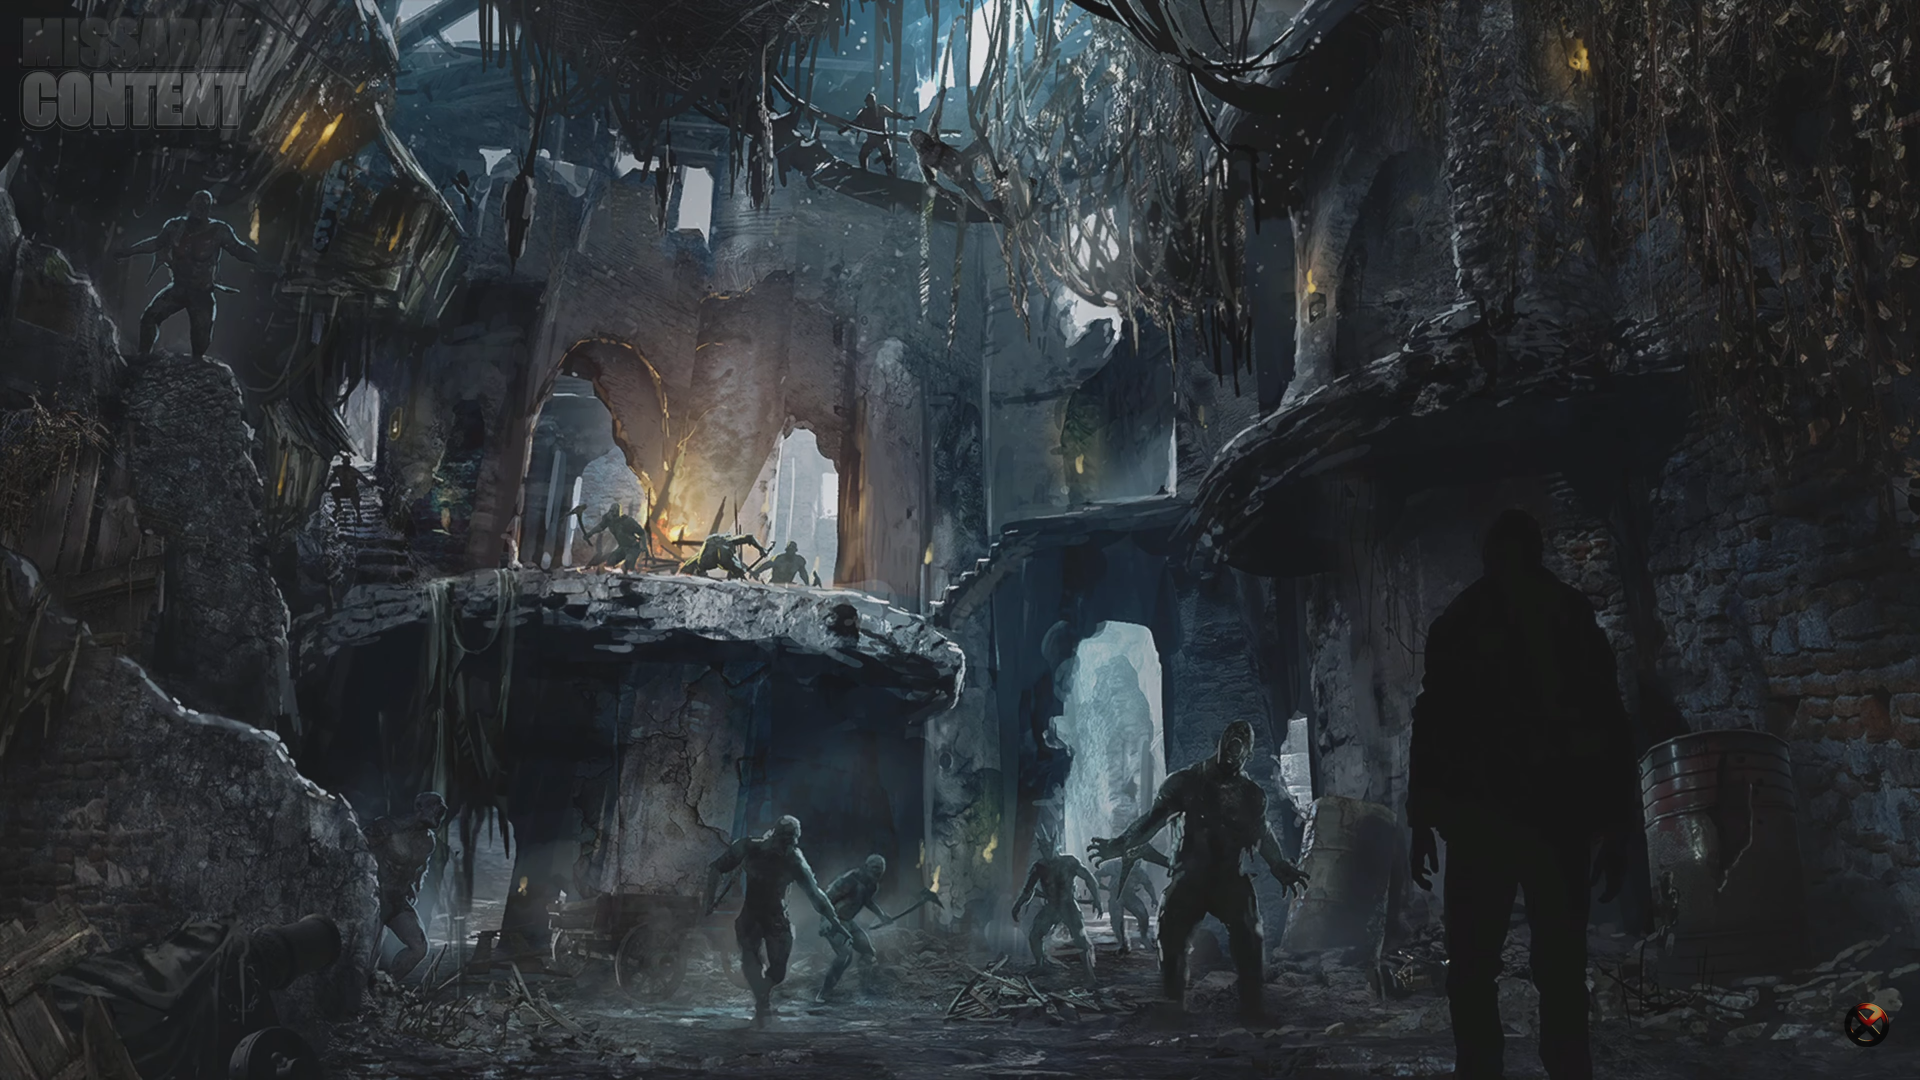
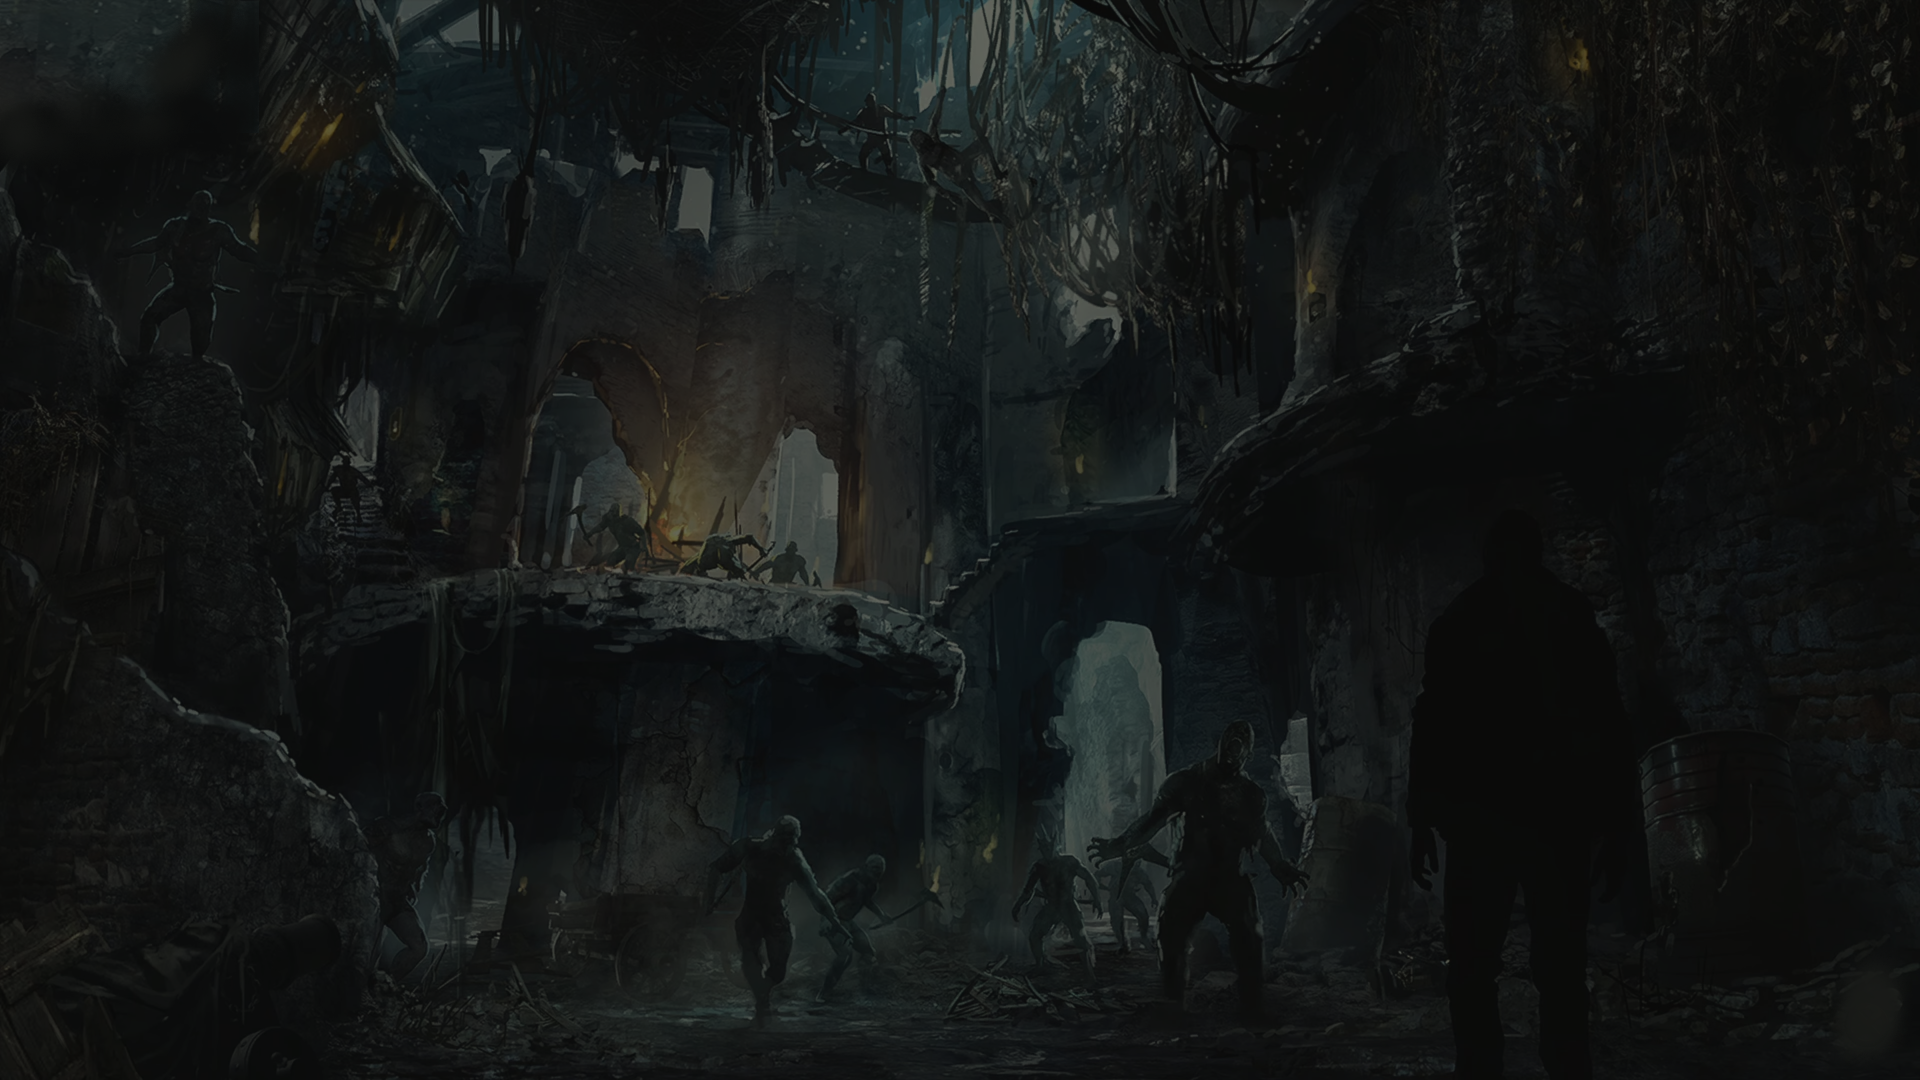
Monstre CSS

diff --git a/html/monstre.html b/html/monstre.html
@@ -6,80 +6,123 @@
         <link rel="shortcut icon" href="../favicon.ico" type="image/x-icon">
         <meta charset="UTF-8" />
         <link href="../css/style.css"rel="stylesheet">
-
-        <title>Chèvre</title>
-
+        <script src="https://kit.fontawesome.com/c6d2413c18.js" crossorigin="anonymous"></script>
+        <title>Monstres</title>
     </head>
 
-    <body>
-        <h1 class="titre">Les monstres.</h1>
-        <div class="fusil">
-            <p>Il y a différent catégorie de monstre dans RE8, certain fort grace à leur nombre ou d'autre aussi</p>
-            <p>coriace que des boss, ils sont tous les résultats de sexpériencces de Miranda qu'elle considère</p>
-            <p>tous comme des échecs.</p>
+    <body class="fond_monstre">
+        <div class="menu">
+            <p><i class="fas fa-bars fa-0.5x"></i> Menu</p>
+            <div class="conteneurmenu">
+                <div class="boutonmenu">
+                    <a href="../index.html"><p class="texte">Accueil</p></a>
+                </div>
+                <div class="boutonmenu">
+                    <a href="boss.html" class="texte"><p>Les boss</p></a>
+                </div>
+                <div class="sousmenuarme">
+                    <p class="textearme">Les armes</p>
+                    <div class="sousmenu">
+                        <div class="arme">
+                            <a href="arme de poing.html" class="texte"><p>Arme de poing</p></a>
+                        </div>
+                        <div class="arme">
+                            <a href="fusil.html" class="texte"><p>Fusil</p></a>
+                        </div>
+                        <div class="arme">
+                            <a href="sniper.html" class="texte"><p>Sniper</p></a>
+                        </div>
+                        <div class="arme">
+                            <a href="lance grenade.html" class="texte"><p>Lance grenade</p></a>
+                        </div>
+                        <div class="arme">
+                            <a href="fusil d'assault.html" class="texte"><p>Fusil d'assault</p></a>
+                        </div>
+                        <div class="arme">
+                            <a href="arme de mêlée.html" class="texte"><p>Arme de  mêlée</p></a>
+                        </div>
+                        <div class="arme">
+                            <a href="magnum.html" class="texte"><p>Magnum</p></a>
+                        </div>
+                    </div>
+                </div>
+                <div class="boutonmenu">
+                    <a href="histoire.html"><p class="texte">L'Histoire</p></a>
+                </div>
+            </div>
         </div>
-        <div class="fusil">
-            <br>
-            <br>
-            <br>
-            <h3>Les Lycans</h3>
-            <div class="image">
-                <img src="..\img\lycan.png">
+        <div class="fond_texte">
+            <h1 class="titre">Les monstres.</h1>
+            <div class="navigation">
+                <a href="#"><p>Intro</p></a>
+                <a href="#2"><p>Lycan</p></a>
+                <a href="#3"><p>Moroaicǎ</p></a>
+                <a href="#4"><p>Samcas</p></a>
+                <a href="#5"><p>Lycans blindés</p></a>
+                <a href="#6"><p>Soldat Eins</p></a>
+                </div>
+            <div class="text_wiki">
+                <p>Il y'a différentes catégories de monstre dans RE8, certain fort grâce à leur nombre ou d'autre plus</p>
+                <p>coriace que des boss, ils sont tous les résultats d'expériences de Miranda qu'elle considère</p>
+                <p>tous comme des échecs.</p>
             </div>
-            <p>Premier ennemie du jeu, ce sont des loup-garou qui peuvent</p>
-            <p>transformer d'autre gens en lycan en les mordant, ennemie le plus</p>
-            <p>répandue, ils sont rapide et dangereux quand ils attaquent en meute.</p>
-            <br>
-            <br>
-            <br>
-            <h3>Les Moroaicǎ</h3>
-            <div class="image">
-                <img src="..\img\Moroaicǎ.png">
+            <div class="text_wiki">
+                <br>
+                <br>
+                <br>
+                <h3 id="2">Les Lycans</h3>
+                <div class="image_monstre">
+                    <img src="..\img\lycan.png">
+                </div>
+                <p>Premier ennemie du jeu, ce sont des loup-garou qui peuvent</p>
+                <p>transformer d'autre gens en lycan en les mordant, ennemie le plus</p>
+                <p>répandue, ils sont rapide et dangereux quand ils attaquent en meute.</p>
+                <br>
+                <br>
+                <br>
+                <h3 id="3">Les Moroaicǎ</h3>
+                <div class="image_monstre">
+                    <img src="..\img\Moroaicǎ.png">
+                </div>
+                <p>Des zombies rodant dans les falaises et les sous-sol du chateau Dimitrescu,</p>
+                <p>ils sont trés faibles mais sont assez bons pour les attaques surprises</p>
+                <p>et vous attaque souvent dans des endroits très restreint.</p>
+                <br>
+                <br>
+                <br>
+                <h3 id="4">Les Samcas</h3>
+                <div class="image_monstre">
+                    <img src="..\img\Samca.png">
+                </div>
+                <p>Ces sont des Moroaicǎ avec des ailes, ils peuvent être pénibles quand</p>
+                <p>vous êtes en hauteur mais le sniper vous aidera à vous en débarrassé.</p>
+                <br>
+                <br>
+                <br>
+                <h3 id="5">Les Lycans blindés</h3>
+                <div class="image_monstre">
+                    <img src="..\img\Lycans blindés.png">
+                </div>
+                <p>Les lycans blindé sont des Lycans avec un armure protégeant certaine partie de</p>
+                <p>leur corp, ils font aussi plus mal et le seur moyen de les vaincres et de leur</p>
+                <p>tirer dan sla tête.</p>
+                <br>
+                <br>
+                <br>
+                <h3 id="6">Les Soldat Eins</h3>
+                <p>Ces monstres sont les ouvriers d'Heinserberg, ressamblant au Moroaicǎ du chateau, ils ont</p>
+                <p>un casque de control mental sur leur tête qui permet à Heinserberg de les controllers sans</p>
+                <p>l'accord de Miranda, comme les Moroaicǎ leur vrais force dépend de leur superiorité numérique</p>
+                <p>et évité de leur tiré sur la tête, cela leur fera rien et faites attention à leurs armes.</p>
+                <br>
+                <br>
+                <br>
+                <div class="image_monstre">
+                    <img src="..\img\Soldat Eins.png">
+                    <img src="..\img\Soldat Eins2.png">
+                </div>
             </div>
-            <p>Des zombies rodant dans les falaises et les sous-sol du chateau Dimitrescu,</p>
-            <p>ils sont trés faibles mais sont assez bons pour les attaques surprises</p>
-            <p>et vous attaque souvent dans des endroits trés réstrain.</p>
-            <br>
-            <br>
-            <br>
-            <h3>Les Samcas</h3>
-            <div class="image">
-                <img src="..\img\Samca.png">
-            </div>
-            <p>Ces sont des Moroaicǎ avec des ailes, ils peuvent être pénibles quand</p>
-            <p>vous êtes en hauteur mais le sniper vous aidera à vous en débarrassé.</p>
-            <br>
-            <br>
-            <br>
-            <h3>Les Lycans blindés</h3>
-            <div class="image">
-                <img src="..\img\Lycans blindés.png">
-            </div>
-            <p>Les lycans blindé sont des Lycans avec un armure protégeant certaine partie de</p>
-            <p>leur corp, ils font aussi plus mal et le seur moyen de les vaincres et de leur</p>
-            <p>tirer dan sla tête.</p>
-            <br>
-            <br>
-            <br>
-            <h3>Les Transporteurs</h3>
-            <div class="image">
-                <img src="..\img\transporteur.png">
-            </div>
-            <p>Ces monstres sont les ouvriers d'Heinserberg, ressamblant au Moroaicǎ du chateau, ils ont</p>
-            <p>un casque de control mental sur leur tête qui permet à Heinserberg de les controllers sans</p>
-            <p>l'accord de Miranda, comme les Moroaicǎ leur vrais force dépend de leur superiorité numérique</p>
-            <p>et évité de leur tiré sur la tête, cela leur fera rien et faites attention à leurs armes.</p>
-            <br>
-            <br>
-            <br>
-            <h3>Les Soldat Eins</h3>
-            <div class="image">
-                <img src="..\img\Soldat Eins.png">
-                <img src="..\img\Soldat Eins2.png">
-            </div>
-            <p>Position: Allez au nord de l'église et dévéroullé le portaille grâce</p>
-            <p>à la clé de fer forgé, la chèvre se trouve prés d'une crypte.</p>
-        </div>
+    </div>
     </body>
 
 </html>

diff --git a/html/fusil.html b/html/fusil.html
@@ -76,7 +76,7 @@
             <br>
             <br>
             <div class="text_wiki"><h2>Description:</h2>
-                <p>C'est la deuxième arme de jeux, elle vous sera trés util façe aux</p>
+                <p>C'est la deuxième arme de jeux, elle vous sera très utile façe aux</p>
                 <p>premier boss du jeux comme Dimitrescu et ces filles.</p>
             </div>
             <br>
@@ -84,7 +84,7 @@
             <br>
             <div class="text_wiki"><h2>Position:</h2>
                 <p>Aller à l'est de l'église du village puis dirigez-vous vers la cabane en bois,</p>
-                <p>le text_wiki se trouve sur la table de la cuisine mais si vous l'avez loupé, ne vous</p>
+                <p>le fusil se trouve sur la table de la cuisine mais si vous l'avez loupé, ne vous</p>
                 <p>inquiétez pas, vous pourrez toujours l'acheter chez le marchand pour 24000 Lei.</p>
             <br>
             <br>

diff --git a/css/style.css b/css/style.css
@@ -514,3 +514,17 @@ head{
     justify-content: center;
     margin-top:0px;  
 }
+.fond_monstre{
+    background-image:url(../img/fond/horde.png) ;
+    background-repeat: no-repeat;
+    background-attachment:fixed;
+    background-size: cover;
+    text-align: center;
+    display: flex;
+    justify-content: center;
+    margin-top:0px; 
+}
+.image_monstre > img{
+    width: 400px;
+
+}

diff --git a/html/heinserberg.html b/html/heinserberg.html
@@ -63,7 +63,7 @@
             <a href="#5"><p>Histoire</p></a>
             <a href="#6"><p>Aptitude</p></a>
             <a href="#7"><p>Faiblesse</p></a>
-        </div>
+            </div>
         <div class="text_wiki_boss">
             <img src="..\img\heinserberg.gif">
             <p>Karl Heinserberg est un des 4 nobles aidant Mère Miranda à diriger le village</p>
